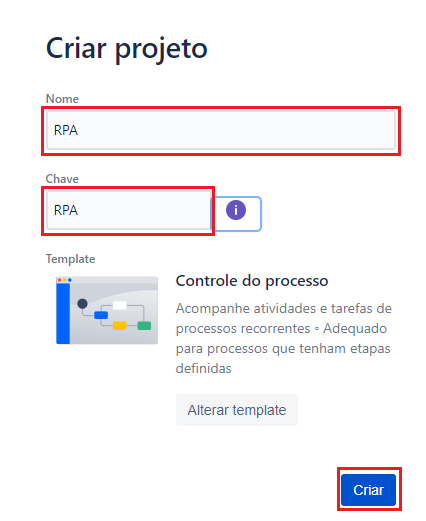
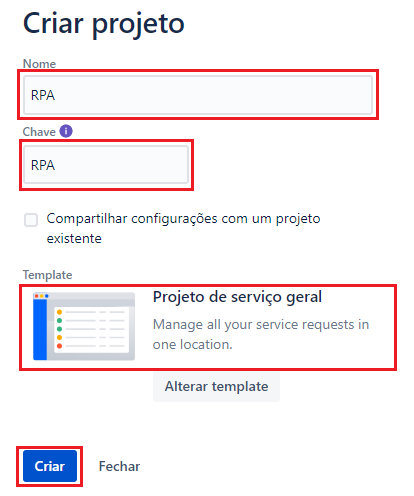
revisao das imagens

diff --git a/doc/README-Config-Jira-on-Cloud.md b/doc/README-Config-Jira-on-Cloud.md
@@ -83,12 +83,12 @@ Guia de Configuração da ferramenta Jira on Cloud *na nuvem* para o projeto [Ji
 
 ![Config-Jira-Software-Cloud-09.png](printscreen/Config-Jira-Software-Cloud-09.png)
 
-3. Pronto! Seu ambient no *Jira Cloud* foi criado para seu projeto
+3. Pronto! Seu projeto foi criado em seu ambiente do *Jira Cloud* 
   * Link de acesso [https://jira-rpa-aas.atlassian.net/](https://jira-rpa-aas.atlassian.net/)
 
 4. Você pode alterar a visão que tem dos itens:
-  * clique no botão `Resumo` para acessar a resumo
-  * clique no botão `Painel` para acessar o painel
+  * clique no botão de menu lateral esquerdo `Filas` para acessar a fila de chamados
+  * clique no botão de menu superior `Painéis de controle` para acessar o painel de controle
 
 ![Config-Jira-Software-Cloud-10.png](printscreen/Config-Jira-Software-Cloud-10.png)
 
